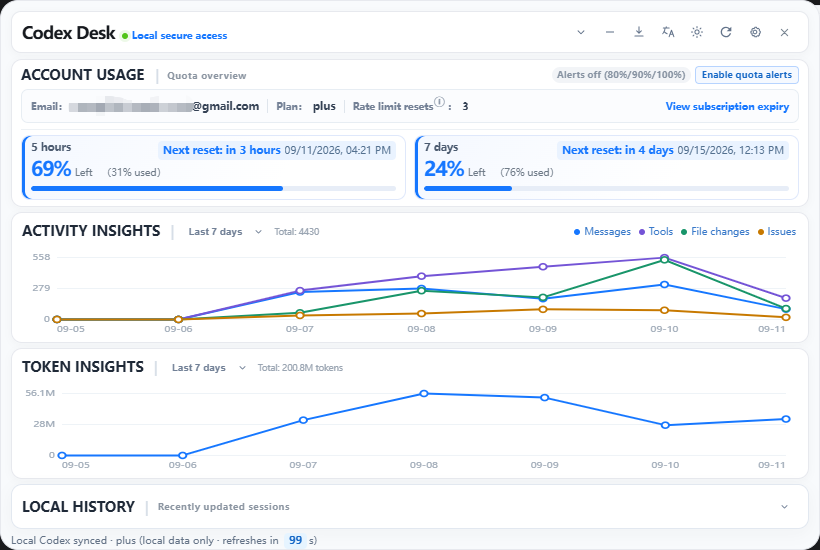
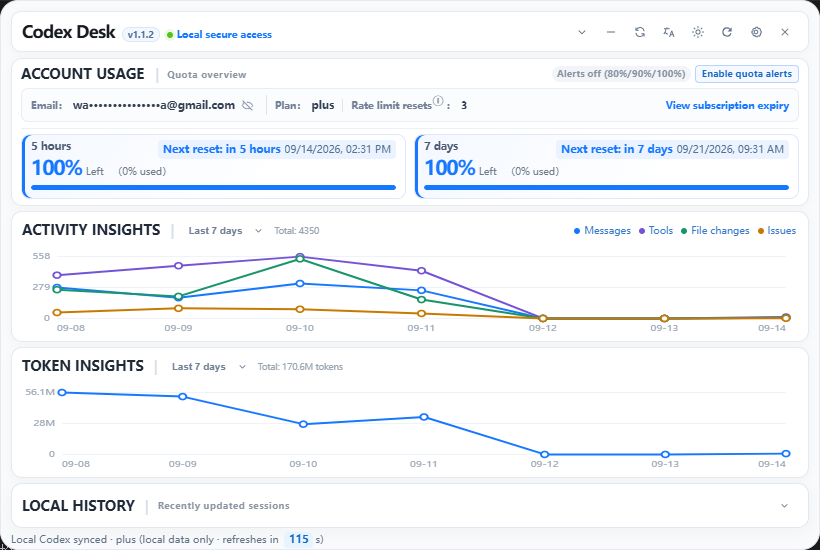
feat: 新增邮箱显示隐藏功能并实现脱敏显示

diff --git a/src/i18n.js b/src/i18n.js
@@ -335,19 +335,19 @@ const PRODUCT_TRANSLATIONS = {
 
 const ACCOUNT_TRANSLATIONS = {
   "zh-CN": {
-    personalCenter: "个人中心", openPersonalCenter: "打开个人中心", closePersonalCenter: "关闭个人中心", accountEmail: "登录邮箱", accountPlan: "订阅方案", resetCreditsTitle: "使用限额重置", resetCreditsDescription: "使用重置功能可恢复 5 小时限额或每周限额。", resetCreditsFullReset: "完全重置（每周 + 5 小时）", resetCreditsCount: "{count} 次", resetCreditsAvailable: "可用重置次数：{count}", resetCreditTooltipItem: "第 {index} 次：{title} · {expires}", resetCreditExpires: "到期：{value}", resetCreditExpiresUnknown: "未提供到期时间", accountType: "登录方式", accountLoading: "正在读取账号信息…", accountEmailUnavailable: "当前登录方式未提供邮箱", accountPlanUnavailable: "未提供", accountTypeChatgpt: "ChatGPT", accountTypeApiKey: "API 密钥", accountTypeBedrock: "Amazon Bedrock", accountTypeUnknown: "未登录", accountReadFailed: "读取账号信息失败：{error}", openBilling: "查看订阅到期时间", accountBillingOpenFailed: "无法打开账单页面：{error}",
+    personalCenter: "个人中心", openPersonalCenter: "打开个人中心", closePersonalCenter: "关闭个人中心", accountEmail: "登录邮箱", hideAccountEmail: "隐藏登录邮箱", showAccountEmail: "显示登录邮箱", accountPlan: "订阅方案", resetCreditsTitle: "使用限额重置", resetCreditsDescription: "使用重置功能可恢复 5 小时限额或每周限额。", resetCreditsFullReset: "完全重置（每周 + 5 小时）", resetCreditsCount: "{count} 次", resetCreditsAvailable: "可用重置次数：{count}", resetCreditTooltipItem: "第 {index} 次：{title} · {expires}", resetCreditExpires: "到期：{value}", resetCreditExpiresUnknown: "未提供到期时间", accountType: "登录方式", accountLoading: "正在读取账号信息…", accountEmailUnavailable: "当前登录方式未提供邮箱", accountPlanUnavailable: "未提供", accountTypeChatgpt: "ChatGPT", accountTypeApiKey: "API 密钥", accountTypeBedrock: "Amazon Bedrock", accountTypeUnknown: "未登录", accountReadFailed: "读取账号信息失败：{error}", openBilling: "查看订阅到期时间", accountBillingOpenFailed: "无法打开账单页面：{error}",
   },
   "zh-TW": {
-    personalCenter: "個人中心", openPersonalCenter: "開啟個人中心", closePersonalCenter: "關閉個人中心", accountEmail: "登入信箱", accountPlan: "訂閱方案", resetCreditsTitle: "使用限額重設", resetCreditsDescription: "使用重設功能可恢復 5 小時限額、每週限額或兩者。", resetCreditsFullReset: "完全重設（每週 + 5 小時）", resetCreditsCount: "{count} 次", resetCreditsAvailable: "可用重設次數：{count}", resetCreditTooltipItem: "第 {index} 次：{title} · {expires}", resetCreditExpires: "到期：{value}", resetCreditExpiresUnknown: "未提供到期時間", accountType: "登入方式", accountLoading: "正在讀取帳號資訊…", accountEmailUnavailable: "目前登入方式未提供信箱", accountPlanUnavailable: "未提供", accountTypeChatgpt: "ChatGPT", accountTypeApiKey: "API 金鑰", accountTypeBedrock: "Amazon Bedrock", accountTypeUnknown: "未登入", accountReadFailed: "讀取帳號資訊失敗：{error}", openBilling: "查看訂閱到期時間", accountBillingOpenFailed: "無法開啟帳單頁面：{error}",
+    personalCenter: "個人中心", openPersonalCenter: "開啟個人中心", closePersonalCenter: "關閉個人中心", accountEmail: "登入信箱", hideAccountEmail: "隱藏登入信箱", showAccountEmail: "顯示登入信箱", accountPlan: "訂閱方案", resetCreditsTitle: "使用限額重設", resetCreditsDescription: "使用重設功能可恢復 5 小時限額、每週限額或兩者。", resetCreditsFullReset: "完全重設（每週 + 5 小時）", resetCreditsCount: "{count} 次", resetCreditsAvailable: "可用重設次數：{count}", resetCreditTooltipItem: "第 {index} 次：{title} · {expires}", resetCreditExpires: "到期：{value}", resetCreditExpiresUnknown: "未提供到期時間", accountType: "登入方式", accountLoading: "正在讀取帳號資訊…", accountEmailUnavailable: "目前登入方式未提供信箱", accountPlanUnavailable: "未提供", accountTypeChatgpt: "ChatGPT", accountTypeApiKey: "API 金鑰", accountTypeBedrock: "Amazon Bedrock", accountTypeUnknown: "未登入", accountReadFailed: "讀取帳號資訊失敗：{error}", openBilling: "查看訂閱到期時間", accountBillingOpenFailed: "無法開啟帳單頁面：{error}",
   },
   en: {
-    personalCenter: "Account", openPersonalCenter: "Open account", closePersonalCenter: "Close account", accountEmail: "Email", accountPlan: "Plan", resetCreditsTitle: "Rate limit resets", resetCreditsDescription: "A reset can restore your 5-hour limit, weekly limit, or both.", resetCreditsFullReset: "Full reset (Weekly + 5 hr)", resetCreditsCount: "{count}", resetCreditsAvailable: "Available resets: {count}", resetCreditTooltipItem: "Reset {index}: {title} · {expires}", resetCreditExpires: "Expires {value}", resetCreditExpiresUnknown: "No expiry provided", accountType: "Sign-in method", accountLoading: "Reading account…", accountEmailUnavailable: "No email is available for this sign-in method", accountPlanUnavailable: "Unavailable", accountTypeChatgpt: "ChatGPT", accountTypeApiKey: "API key", accountTypeBedrock: "Amazon Bedrock", accountTypeUnknown: "Not signed in", accountReadFailed: "Could not read account: {error}", openBilling: "View subscription expiry", accountBillingOpenFailed: "Could not open the billing page: {error}",
+    personalCenter: "Account", openPersonalCenter: "Open account", closePersonalCenter: "Close account", accountEmail: "Email", hideAccountEmail: "Hide email", showAccountEmail: "Show email", accountPlan: "Plan", resetCreditsTitle: "Rate limit resets", resetCreditsDescription: "A reset can restore your 5-hour limit, weekly limit, or both.", resetCreditsFullReset: "Full reset (Weekly + 5 hr)", resetCreditsCount: "{count}", resetCreditsAvailable: "Available resets: {count}", resetCreditTooltipItem: "Reset {index}: {title} · {expires}", resetCreditExpires: "Expires {value}", resetCreditExpiresUnknown: "No expiry provided", accountType: "Sign-in method", accountLoading: "Reading account…", accountEmailUnavailable: "No email is available for this sign-in method", accountPlanUnavailable: "Unavailable", accountTypeChatgpt: "ChatGPT", accountTypeApiKey: "API key", accountTypeBedrock: "Amazon Bedrock", accountTypeUnknown: "Not signed in", accountReadFailed: "Could not read account: {error}", openBilling: "View subscription expiry", accountBillingOpenFailed: "Could not open the billing page: {error}",
   },
   ja: {
-    personalCenter: "アカウント", openPersonalCenter: "アカウントを開く", closePersonalCenter: "アカウントを閉じる", accountEmail: "メールアドレス", accountPlan: "プラン", resetCreditsTitle: "レート制限のリセット", resetCreditsDescription: "リセットすると、5 時間枠、週次枠、または両方を回復できます。", resetCreditsFullReset: "完全リセット（週次 + 5 時間）", resetCreditsCount: "{count} 回", resetCreditsAvailable: "利用可能なリセット：{count}", resetCreditTooltipItem: "{index} 回目：{title} · {expires}", resetCreditExpires: "有効期限：{value}", resetCreditExpiresUnknown: "有効期限は未提供", accountType: "ログイン方法", accountLoading: "アカウント情報を読み込み中…", accountEmailUnavailable: "このログイン方法ではメールアドレスを取得できません", accountPlanUnavailable: "利用不可", accountTypeChatgpt: "ChatGPT", accountTypeApiKey: "API キー", accountTypeBedrock: "Amazon Bedrock", accountTypeUnknown: "未ログイン", accountReadFailed: "アカウント情報の読み込みに失敗しました：{error}", openBilling: "契約の有効期限を確認", accountBillingOpenFailed: "請求ページを開けませんでした：{error}",
+    personalCenter: "アカウント", openPersonalCenter: "アカウントを開く", closePersonalCenter: "アカウントを閉じる", accountEmail: "メールアドレス", hideAccountEmail: "メールアドレスを隠す", showAccountEmail: "メールアドレスを表示", accountPlan: "プラン", resetCreditsTitle: "レート制限のリセット", resetCreditsDescription: "リセットすると、5 時間枠、週次枠、または両方を回復できます。", resetCreditsFullReset: "完全リセット（週次 + 5 時間）", resetCreditsCount: "{count} 回", resetCreditsAvailable: "利用可能なリセット：{count}", resetCreditTooltipItem: "{index} 回目：{title} · {expires}", resetCreditExpires: "有効期限：{value}", resetCreditExpiresUnknown: "有効期限は未提供", accountType: "ログイン方法", accountLoading: "アカウント情報を読み込み中…", accountEmailUnavailable: "このログイン方法ではメールアドレスを取得できません", accountPlanUnavailable: "利用不可", accountTypeChatgpt: "ChatGPT", accountTypeApiKey: "API キー", accountTypeBedrock: "Amazon Bedrock", accountTypeUnknown: "未ログイン", accountReadFailed: "アカウント情報の読み込みに失敗しました：{error}", openBilling: "契約の有効期限を確認", accountBillingOpenFailed: "請求ページを開けませんでした：{error}",
   },
   ko: {
-    personalCenter: "개인 센터", openPersonalCenter: "개인 센터 열기", closePersonalCenter: "개인 센터 닫기", accountEmail: "로그인 이메일", accountPlan: "구독 플랜", resetCreditsTitle: "사용 한도 재설정", resetCreditsDescription: "재설정으로 5시간 한도, 주간 한도 또는 둘 다를 복원할 수 있습니다.", resetCreditsFullReset: "전체 재설정(주간 + 5시간)", resetCreditsCount: "{count}회", resetCreditsAvailable: "사용 가능한 재설정: {count}", resetCreditTooltipItem: "{index}회: {title} · {expires}", resetCreditExpires: "만료: {value}", resetCreditExpiresUnknown: "만료 시간이 제공되지 않음", accountType: "로그인 방식", accountLoading: "계정 정보를 읽는 중…", accountEmailUnavailable: "현재 로그인 방식은 이메일을 제공하지 않습니다", accountPlanUnavailable: "제공되지 않음", accountTypeChatgpt: "ChatGPT", accountTypeApiKey: "API 키", accountTypeBedrock: "Amazon Bedrock", accountTypeUnknown: "로그인되지 않음", accountReadFailed: "계정 정보를 읽지 못했습니다: {error}", openBilling: "구독 만료일 보기", accountBillingOpenFailed: "청구 페이지를 열 수 없습니다: {error}",
+    personalCenter: "개인 센터", openPersonalCenter: "개인 센터 열기", closePersonalCenter: "개인 센터 닫기", accountEmail: "로그인 이메일", hideAccountEmail: "이메일 숨기기", showAccountEmail: "이메일 표시", accountPlan: "구독 플랜", resetCreditsTitle: "사용 한도 재설정", resetCreditsDescription: "재설정으로 5시간 한도, 주간 한도 또는 둘 다를 복원할 수 있습니다.", resetCreditsFullReset: "전체 재설정(주간 + 5시간)", resetCreditsCount: "{count}회", resetCreditsAvailable: "사용 가능한 재설정: {count}", resetCreditTooltipItem: "{index}회: {title} · {expires}", resetCreditExpires: "만료: {value}", resetCreditExpiresUnknown: "만료 시간이 제공되지 않음", accountType: "로그인 방식", accountLoading: "계정 정보를 읽는 중…", accountEmailUnavailable: "현재 로그인 방식은 이메일을 제공하지 않습니다", accountPlanUnavailable: "제공되지 않음", accountTypeChatgpt: "ChatGPT", accountTypeApiKey: "API 키", accountTypeBedrock: "Amazon Bedrock", accountTypeUnknown: "로그인되지 않음", accountReadFailed: "계정 정보를 읽지 못했습니다: {error}", openBilling: "구독 만료일 보기", accountBillingOpenFailed: "청구 페이지를 열 수 없습니다: {error}",
   },
 };
 

diff --git a/src/views/account-dialog-view.js b/src/views/account-dialog-view.js
@@ -4,25 +4,59 @@
  */
 export function createAccountOverviewView({ t, invoke }) {
   const email = document.querySelector("#account-email");
+  const emailVisibilityButton = document.querySelector("#account-email-visibility");
   const plan = document.querySelector("#account-plan");
   const billingButton = document.querySelector("#account-billing");
   const message = document.querySelector("#account-message");
   let profile = null;
   let loading = false;
   let error = null;
+  let isEmailVisible = true;
+
+  /**
+   * 保留邮箱前 2 位、@ 前最后 1 位及完整域名，既能辨认账号，也不会暴露主体内容。
+   * 短邮箱会减少可见字符，确保至少隐藏 1 位。
+   */
+  function maskEmail(value) {
+    const separatorIndex = value.lastIndexOf("@");
+    if (separatorIndex <= 0) return "•".repeat(Math.max(1, value.length));
+
+    const localPart = value.slice(0, separatorIndex);
+    const domain = value.slice(separatorIndex);
+    if (localPart.length <= 2) {
+      return `${localPart.slice(0, 1)}${"•".repeat(Math.max(1, localPart.length - 1))}${domain}`;
+    }
+    if (localPart.length === 3) return `${localPart[0]}•${localPart[2]}${domain}`;
+    return `${localPart.slice(0, 2)}${"•".repeat(localPart.length - 3)}${localPart.at(-1)}${domain}`;
+  }
 
   function render() {
     if (loading) {
       email.textContent = plan.textContent = t("accountLoading");
+      emailVisibilityButton.hidden = true;
       message.hidden = true;
       return;
     }
 
-    // 用户已在本机账户看板中主动查看身份，因此按接口原样展示完整登录邮箱。
-    email.textContent = profile?.email ?? t("accountEmailUnavailable");
+    const hasEmail = Boolean(profile?.email);
+    email.textContent = hasEmail && !isEmailVisible ? maskEmail(profile.email) : (profile?.email ?? t("accountEmailUnavailable"));
+    // 脱敏状态下不保留完整邮箱的悬浮提示，避免看似隐藏但仍可直接读到原文。
+    email.title = hasEmail && isEmailVisible ? profile.email : "";
+    emailVisibilityButton.hidden = !hasEmail;
+    emailVisibilityButton.setAttribute("aria-pressed", String(isEmailVisible));
+    emailVisibilityButton.classList.toggle("is-concealed", !isEmailVisible);
+    const visibilityLabel = t(isEmailVisible ? "hideAccountEmail" : "showAccountEmail");
+    emailVisibilityButton.title = visibilityLabel;
+    emailVisibilityButton.setAttribute("aria-label", visibilityLabel);
     plan.textContent = profile?.planType ?? t("accountPlanUnavailable");
     message.hidden = !error;
     message.textContent = error ? t(error.key, { error: error.detail }) : "";
+  }
+
+  function toggleEmailVisibility() {
+    if (!profile?.email) return;
+    isEmailVisible = !isEmailVisible;
+    render();
   }
 
   async function refresh() {
@@ -54,6 +88,7 @@ export function createAccountOverviewView({ t, invoke }) {
   }
 
   billingButton.addEventListener("click", () => void openBillingPage());
+  emailVisibilityButton.addEventListener("click", toggleEmailVisibility);
 
   return { refresh, updateLanguage: render };
 }

diff --git a/src/styles/dialogs.css b/src/styles/dialogs.css
@@ -3,6 +3,13 @@
 .account-detail-label { flex: 0 0 auto; color: #738095; font-size: .62rem; font-weight: 650; }
 .account-detail-label::after { content: "："; }
 .account-detail-item strong { min-width: 0; overflow: hidden; color: #344154; font-size: .68rem; font-weight: 650; text-overflow: ellipsis; white-space: nowrap; }
+.email-visibility-button { display: inline-grid; flex: 0 0 auto; width: 20px; height: 20px; margin-left: -2px; padding: 0; border: 0; border-radius: 5px; place-items: center; color: #8995a5; background: transparent; cursor: pointer; }
+.email-visibility-button[hidden] { display: none; }
+.email-visibility-button:hover { color: #1677ff; background: #eaf3ff; }
+.email-visibility-button:focus-visible { outline: 2px solid #91caff; outline-offset: 1px; }
+.email-visibility-icon { width: 13px; height: 13px; fill: none; stroke: currentColor; stroke-linecap: round; stroke-linejoin: round; stroke-width: 1.8; }
+.email-visibility-icon-hide, .email-visibility-button.is-concealed .email-visibility-icon-show { display: none; }
+.email-visibility-button.is-concealed .email-visibility-icon-hide { display: block; }
 /* 字段按内容宽度排列；仅将按钮推到右侧，避免邮箱后产生无意义的大块空白。 */
 .account-email-item::after { align-self: stretch; width: 1px; margin-left: 3px; background: #dfe5ec; content: ""; }
 .account-billing-actions { display: flex; flex: 0 0 auto; align-items: center; gap: 4px; margin-left: auto; }

diff --git a/index.html b/index.html
@@ -99,6 +99,15 @@
             <div class="account-detail-item account-email-item">
               <span class="account-detail-label" data-i18n="accountEmail">登录邮箱</span>
               <strong id="account-email">正在读取账号信息…</strong>
+              <button id="account-email-visibility" class="email-visibility-button" type="button" aria-pressed="true" hidden>
+                <svg class="email-visibility-icon email-visibility-icon-show" viewBox="0 0 24 24" aria-hidden="true">
+                  <path d="M2.5 12s3.5-6 9.5-6 9.5 6 9.5 6-3.5 6-9.5 6-9.5-6-9.5-6Z" />
+                  <circle cx="12" cy="12" r="2.5" />
+                </svg>
+                <svg class="email-visibility-icon email-visibility-icon-hide" viewBox="0 0 24 24" aria-hidden="true">
+                  <path d="M3 3l18 18M10.6 6.1A9.3 9.3 0 0 1 12 6c6 0 9.5 6 9.5 6a15.2 15.2 0 0 1-2.1 2.8M6.2 6.3C3.8 8 2.5 12 2.5 12s3.5 6 9.5 6c1.5 0 2.8-.4 3.9-1" />
+                </svg>
+              </button>
             </div>
             <div class="account-detail-item">
               <span class="account-detail-label" data-i18n="accountPlan">订阅方案</span>

diff --git a/src/styles/theme.css b/src/styles/theme.css
@@ -238,6 +238,8 @@
 :root[data-theme="dark"] .account-details { border-color: #2c3948; background: #18212c; }
 :root[data-theme="dark"] .account-detail-label { color: #9aa9ba; }
 :root[data-theme="dark"] .account-detail-item strong { color: #d5dfeb; }
+:root[data-theme="dark"] .email-visibility-button { color: #9aa9ba; }
+:root[data-theme="dark"] .email-visibility-button:hover { color: #9ecbff; background: #20354d; }
 :root[data-theme="dark"] .account-billing-button { color: #8dc5ff; background: transparent; }
 :root[data-theme="dark"] .account-billing-button:hover { color: #c7e2ff; }
 :root[data-theme="dark"] .account-email-item::after, :root[data-theme="dark"] .account-reset-credits::before { background: #3a4758; }
